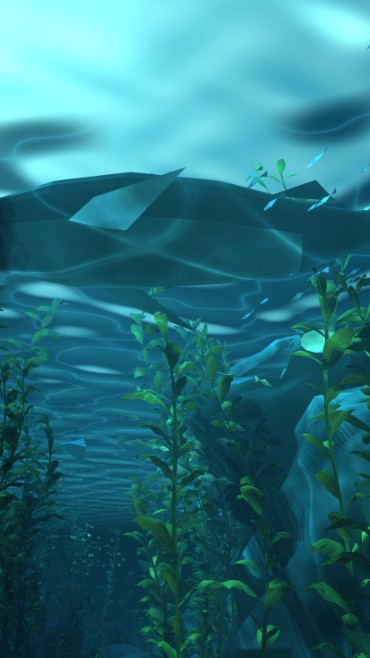
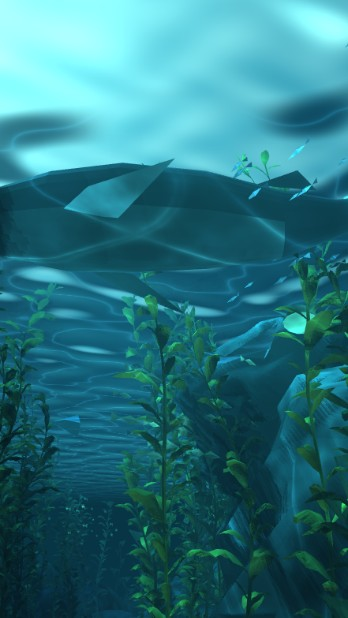
Add free swimming to Mini and default to Cinema in the full edition

diff --git a/Akvarium-9x16.html b/Akvarium-9x16.html
@@ -1,1 +1,1 @@
[2 lines of base64/hex data omitted]

diff --git a/Akvarium-1K.html b/Akvarium-1K.html
@@ -1,1 +1,1 @@
[2 lines of base64/hex data omitted]

diff --git a/index.html b/index.html
@@ -22,8 +22,8 @@ body.film header,body.film footer{visibility:hidden}
 button[aria-pressed=true]{background:#195365}
 </style>
 <canvas aria-label="Explorable underwater world"></canvas>
-<header><div><strong>Quiet Depths</strong><span id="location">Turquoise Canyon</span></div><div id="readout"><div id="depth"></div><span id="survey"></span><span id="coins"></span><span id="size">60407 bytes</span></div></header>
-<footer><span id="keys">WASD · Swim　 Left-click · Look　 Right-click · Free cursor</span><span id="touch"><button data-move="KeyW">Forward</button><button data-move="KeyS">Back</button><button data-move="Space">Rise</button><button data-move="KeyC">Dive</button></span><span><select id="destination" aria-label="Dive location"><option value="">Dive sites</option><option value="kelp">Kelp Forest</option><option value="tail">Stone Fluke</option><option value="wreck">Shipwreck</option><option value="grotto">Jellyfish Grotto</option><option value="vents">Vent Field</option><option value="forum">Sunken Forum</option></select> <button id="fullscreen" aria-label="Fullscreen">⛶</button> <button id="reset">Restart</button></span><span id="gear"><button id="sonar" title="Q">Sonar</button> <button id="lamp" title="L" aria-pressed="false">Lamp</button> <button id="cinema" title="M" aria-pressed="false">Cinema</button> <button id="film" title="V">Flythrough</button> <details id="help">
+<header><div><strong>Quiet Depths</strong><span id="location">Turquoise Canyon</span></div><div id="readout"><div id="depth"></div><span id="survey"></span><span id="coins"></span><span id="size">60482 bytes</span></div></header>
+<footer><span id="keys">WASD · Swim　 Left-click · Look　 Right-click · Free cursor</span><span id="touch"><button data-move="KeyW">Forward</button><button data-move="KeyS">Back</button><button data-move="Space">Rise</button><button data-move="KeyC">Dive</button></span><span><select id="destination" aria-label="Dive location"><option value="">Dive sites</option><option value="kelp">Kelp Forest</option><option value="tail">Stone Fluke</option><option value="wreck">Shipwreck</option><option value="grotto">Jellyfish Grotto</option><option value="vents">Vent Field</option><option value="forum">Sunken Forum</option></select> <button id="fullscreen" aria-label="Fullscreen">⛶</button> <button id="reset">Restart</button></span><span id="gear"><button id="sonar" title="Q">Sonar</button> <button id="lamp" title="L" aria-pressed="false">Lamp</button> <button id="cinema" title="M / Ь" aria-pressed="true">M / Ь · Cinema</button> <button id="film" title="V">Flythrough</button> <details id="help">
 <summary>Controls</summary>
 <dl>
 <dt>WASD / arrows</dt><dd>Swim</dd>
@@ -36,7 +36,7 @@ button[aria-pressed=true]{background:#195365}
 <dt>H</dt><dd>Toggle HUD</dd>
 <dt>L</dt><dd>Toggle lamp</dd>
 <dt>Q</dt><dd>Sonar pulse</dd>
-<dt>M</dt><dd>Toggle Cinema camera</dd>
+<dt>M / Ь</dt><dd>Toggle Cinema camera (on by default)</dd>
 <dt>V</dt><dd>Start or stop Flythrough</dd>
 <dt>Esc</dt><dd>Stop Flythrough</dd>
 </dl></details></span></footer>
@@ -994,7 +994,8 @@ function ocean() {
   let lampOn=false,pulse=null,filmClock=0,filmActive=false;
   const entryFade=.42;
   const cinemaButton=document.querySelector('#cinema');
-  let cinemaOn=false,viewYaw=yaw,viewPitch=pitch,lens=1.56;
+  let cinemaOn=true,viewYaw=yaw,viewPitch=pitch,lens=1.71;
+  document.body.classList.add('cinema');
   function cinemaToggle(){
     cinemaOn=!cinemaOn;
     cinemaButton.setAttribute('aria-pressed',String(cinemaOn));

diff --git a/README.md b/README.md
@@ -9,16 +9,16 @@
 
 ### Akvarium · Full edition
 
-**60,407 bytes (59.0 KiB)** · [Play in browser](https://triple6xseven.github.io/Akvarium/)
+**60,482 bytes (59.1 KiB)** · [Play in browser](https://triple6xseven.github.io/Akvarium/)
 
 <img src="screenshots/akvarium.jpg" alt="Akvarium: a whale crosses above the kelp canyon" width="720">
 
 ### Akvarium Mini
 
-- **Fullscreen, 13,894 bytes (13.6 KiB)** · [Watch in browser](https://triple6xseven.github.io/Akvarium/Akvarium-1K.html) · [HTML file](Akvarium-1K.html)
-- **Portrait 9:16, 13,927 bytes (13.6 KiB)** · [Watch in browser](https://triple6xseven.github.io/Akvarium/Akvarium-9x16.html) · [HTML file](Akvarium-9x16.html)
+- **Fullscreen, 15,860 bytes (15.5 KiB)** · [Watch in browser](https://triple6xseven.github.io/Akvarium/Akvarium-1K.html) · [HTML file](Akvarium-1K.html)
+- **Portrait 9:16, 15,893 bytes (15.5 KiB)** · [Watch in browser](https://triple6xseven.github.io/Akvarium/Akvarium-9x16.html) · [HTML file](Akvarium-9x16.html)
 
-A looping flythrough through the kelp canyon, with a whale passing overhead. Each layout runs from one self-contained HTML file. Press **F** or click **Fullscreen** for browser fullscreen. The [Mini branch](https://github.com/triple6xseven/Akvarium/tree/mini) opens the fullscreen layout by default.
+A looping flythrough through the kelp canyon, with a whale passing overhead. Click **Explore** or press **V** to fly freely. Move with **WASD / arrows**, rise or dive with **Space / C**, and drag to look around. Touchscreens get on-screen movement controls. Press **V** again to return to the flythrough. Each layout runs from one self-contained HTML file. Press **F** or click **Fullscreen** for browser fullscreen. The [Mini branch](https://github.com/triple6xseven/Akvarium/tree/mini) opens the fullscreen layout by default.
 
 <img src="screenshots/akvarium-mini.jpg" alt="Akvarium Mini fullscreen" width="720"> <img src="screenshots/akvarium-mini-9x16.jpg" alt="Akvarium Mini portrait, 9:16" width="260">
 
@@ -31,7 +31,7 @@ A looping flythrough through the kelp canyon, with a whale passing overhead. Eac
 
 ## What’s underwater
 
-- **Cinematic cameras:** press **V** for a guided tour that opens with a whale crossing overhead. Press **M** to keep control of the dive with smoother camera turns, a narrower frame, and a subtle vignette.
+- **Cinematic cameras:** press **V** for a guided tour that opens with a whale crossing overhead. The manual Cinema camera starts enabled, with smoother turns, a narrower frame, and a subtle vignette. Press **M / Ь** to toggle it.
 - **Swim physics:** slow acceleration, coasting, gentle currents, separate rise and dive controls, and collision with terrain and rocks.
 - **Procedural shaders:** animated surface reflections and caustics, soft shadow mapping, shafts of sunlight, and depth-dependent haze.
 - **Six dive sites:** kelp forest, stone whale fluke, shipwreck, jellyfish grotto, hydrothermal vents, and a sunken Roman forum with a mosaic floor.
@@ -52,6 +52,6 @@ The in-game **Controls** button opens the full list.
 - **H** — toggle the HUD.
 - **L** — toggle the dive lamp.
 - **Q** — send a sonar pulse.
-- **M** — toggle the manual Cinema camera.
+- **M / Ь** — toggle the manual Cinema camera (on by default).
 - **V** — start or stop Flythrough.
 - **Esc** — also exits Flythrough. The browser handles exiting fullscreen with Esc.
